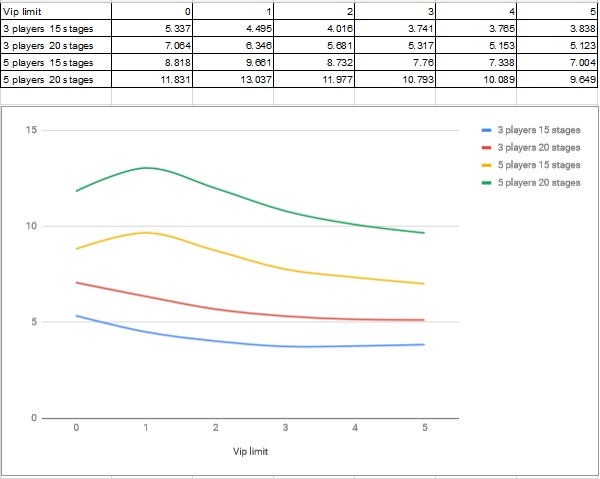
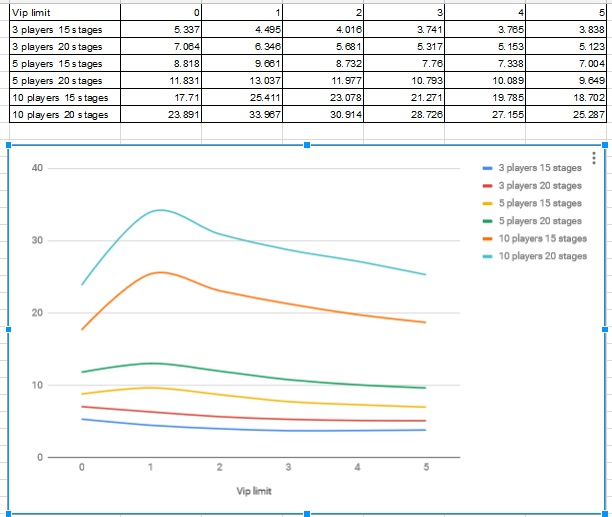
add 10 players run and update result diagramm

diff --git a/Featureban.Runner/Program.cs b/Featureban.Runner/Program.cs
@@ -41,6 +41,20 @@ namespace Featureban.Runner
                 new Stage() {PlayersCount = 5, StagesLimit = 20, GamesCount = 1000, WipLimit = 4},
                 new Stage() {PlayersCount = 5, StagesLimit = 20, GamesCount = 1000, WipLimit = 5},
 
+                new Stage() {PlayersCount = 10, StagesLimit = 15, GamesCount = 1000, WipLimit = 0},
+                new Stage() {PlayersCount = 10, StagesLimit = 15, GamesCount = 1000, WipLimit = 1},
+                new Stage() {PlayersCount = 10, StagesLimit = 15, GamesCount = 1000, WipLimit = 2},
+                new Stage() {PlayersCount = 10, StagesLimit = 15, GamesCount = 1000, WipLimit = 3},
+                new Stage() {PlayersCount = 10, StagesLimit = 15, GamesCount = 1000, WipLimit = 4},
+                new Stage() {PlayersCount = 10, StagesLimit = 15, GamesCount = 1000, WipLimit = 5},
+
+                new Stage() {PlayersCount = 10, StagesLimit = 20, GamesCount = 1000, WipLimit = 0},
+                new Stage() {PlayersCount = 10, StagesLimit = 20, GamesCount = 1000, WipLimit = 1},
+                new Stage() {PlayersCount = 10, StagesLimit = 20, GamesCount = 1000, WipLimit = 2},
+                new Stage() {PlayersCount = 10, StagesLimit = 20, GamesCount = 1000, WipLimit = 3},
+                new Stage() {PlayersCount = 10, StagesLimit = 20, GamesCount = 1000, WipLimit = 4},
+                new Stage() {PlayersCount = 10, StagesLimit = 20, GamesCount = 1000, WipLimit = 5},
+
             };
 
             List<StageResult> stageResults = new List<StageResult>();

diff --git a/README.md b/README.md
@@ -1,1 +1,1 @@
-![Результаты](ResultDiagram.jpg)
+![Результаты ](ResultDiagram.jpg)
